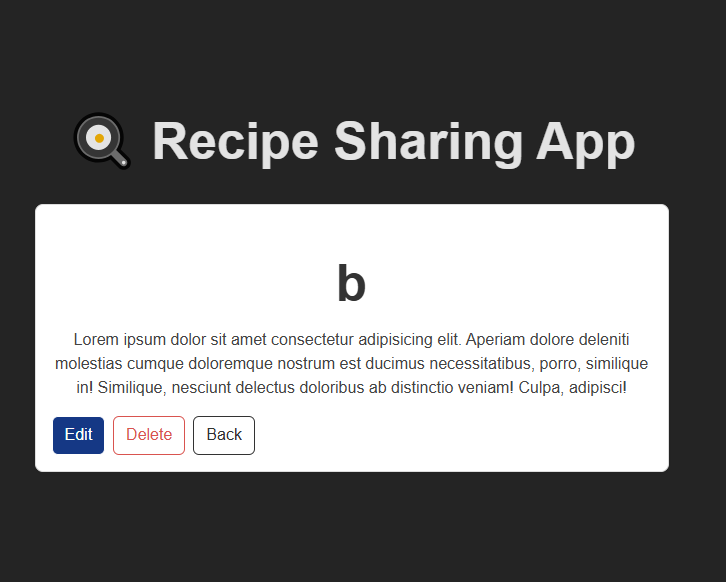
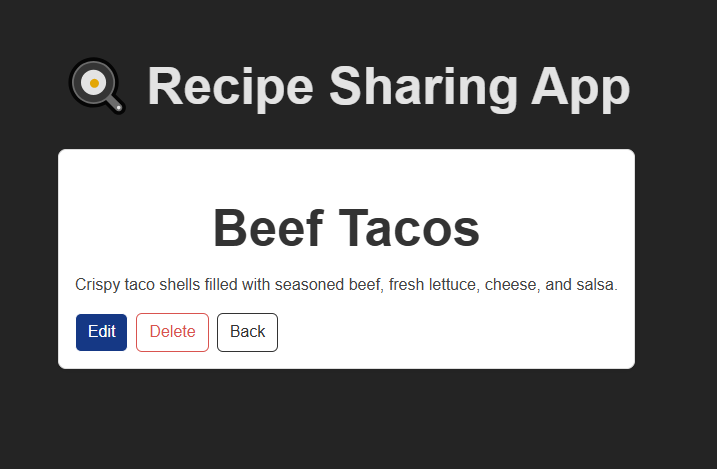
feat: add search and filtering functionality to recipes
- extended Zustand store with searchTerm, setSearchTerm, and filterRecipes
- created SearchBar component for inputting search terms
- updated RecipeList to display filtered recipes when a search term is present
- integrated SearchBar into App for improved recipe discovery

Changed region(s): [[0.0307, 0.1194, 0.9205, 0.8358], [0.2762, 0.4478, 0.675, 0.5373]]

diff --git a/recipe-sharing-app/src/components/recipeStore.js b/recipe-sharing-app/src/components/recipeStore.js
@@ -8,8 +8,10 @@ import { create } from "zustand";
  * - deleteRecipe(id)
  * - setRecipes(recipes)
  */
-export const useRecipeStore = create((set) => ({
+export const useRecipeStore = create((set, get) => ({
   recipes: [],
+  searchTerm: "",
+  filteredRecipes: [],
 
   // Action: add a new recipe
   addRecipe: (newRecipe) =>
@@ -34,4 +36,18 @@ export const useRecipeStore = create((set) => ({
 
   // Action: clear all recipes
   clearRecipes: () => set({ recipes: [] }),
+
+  // Action: set the search term
+  setSearchTerm: (term) => {
+    set({ searchTerm: term });
+    get().filterRecipes(); // auto-filter when term changes
+  },
+
+  // Action: filter recipes based on search term
+  filterRecipes: () =>
+    set((state) => ({
+      filteredRecipes: state.recipes.filter((recipe) =>
+        recipe.title.toLowerCase().includes(state.searchTerm.toLowerCase())
+      ),
+    })),
 }));

diff --git a/recipe-sharing-app/src/components/SearchBar.jsx b/recipe-sharing-app/src/components/SearchBar.jsx
@@ -1,0 +1,23 @@
+import React from "react";
+import { useRecipeStore } from "./recipeStore";
+
+const SearchBar = () => {
+  const setSearchTerm = useRecipeStore((state) => state.setSearchTerm);
+
+  return (
+    <input
+      type="text"
+      placeholder="Search recipes..."
+      onChange={(e) => setSearchTerm(e.target.value)}
+      style={{
+        padding: "0.5rem 1rem",
+        marginBottom: "1.5rem",
+        borderRadius: "8px",
+        border: "1px solid #ddd",
+        width: "100%",
+        maxWidth: "400px",
+      }}
+    />
+  );
+};
+export default SearchBar;

diff --git a/recipe-sharing-app/src/App.jsx b/recipe-sharing-app/src/App.jsx
@@ -4,6 +4,7 @@ import AddRecipeForm from "./components/AddRecipeForm";
 import RecipeList from "./components/RecipeList";
 import RecipeDetails from "./components/RecipeDetails";
 import EditRecipeForm from "./components/EditRecipeForm";
+import SearchBar from "./components/SearchBar";
 
 function App() {
   return (
@@ -22,6 +23,7 @@ function App() {
           element={
             <>
               <AddRecipeForm />
+              <SearchBar />
               <RecipeList />{" "}
             </>
           }

diff --git a/recipe-sharing-app/src/components/RecipeDetails.jsx b/recipe-sharing-app/src/components/RecipeDetails.jsx
@@ -51,10 +51,7 @@ const RecipeDetails = () => {
           }}
           aria-label="Edit recipe"
         >
-          Edit Lorem ipsum dolor sit amet consectetur adipisicing elit. Aperiam
-          dolore deleniti molestias cumque doloremque nostrum est ducimus
-          necessitatibus, porro, similique in! Similique, nesciunt delectus
-          doloribus ab distinctio veniam! Culpa, adipisci!
+          Edit
         </Link>
         <DeleteRecipeButton id={recipeId} />
         <Link

diff --git a/recipe-sharing-app/src/components/RecipeList.jsx b/recipe-sharing-app/src/components/RecipeList.jsx
@@ -3,7 +3,9 @@ import { Link } from "react-router-dom";
 import { useRecipeStore } from "./recipeStore";
 
 const RecipeList = () => {
-  const recipes = useRecipeStore((state) => state.recipes);
+  const recipes = useRecipeStore((state) =>
+    state.searchTerm ? state.filteredRecipes : state.recipes
+  );
 
   return (
     <div style={{ marginTop: "2rem" }}>

diff --git a/recipe-sharing-app/src/components/EditRecipeForm.jsx b/recipe-sharing-app/src/components/EditRecipeForm.jsx
@@ -30,8 +30,8 @@ const EditRecipeForm = () => {
     );
   }
 
-  const handleSubmit = (e) => {
-    e.preventDefault();
+  const handleSubmit = (event) => {
+    event.preventDefault();
     if (!title.trim() || !description.trim()) return;
 
     const updatedRecipe = {

diff --git a/recipe-sharing-app/README.md b/recipe-sharing-app/README.md
@@ -74,12 +74,28 @@ Open your browser at [http://localhost:5173](http://localhost:5173).
 | ------------------------------------------------------------------ | ----------------------------------------------------- | ----------------------------------------------------- |
 | ![AddRecipeForm + RecipeList](./src/assets/images/screenshot2.png) | ![RecipeDetails](./src/assets/images/screenshot3.png) | ![EditRecipeForm](./src/assets/images/screenshot.png) |
 
-| Edited Recipe Displayed                                         | Delete Recipe                                        |
-| --------------------------------------------------------------- | ---------------------------------------------------- |
-| ![Edited Recipe Displayed](./src/assets/images/screenshot4.png) | ![DeleteRecipe](./src/assets/images/screenshot5.png) |
+| Edited Recipe Displayed                                         | Delete Recipe                                        | Search Recipe                                                 |
+| --------------------------------------------------------------- | ---------------------------------------------------- | ------------------------------------------------------------- |
+| ![Edited Recipe Displayed](./src/assets/images/screenshot4.png) | ![DeleteRecipe](./src/assets/images/screenshot5.png) | ![SarchBar + RecipeList](./src/assets/images/screenshot6.png) |
 
 ---
 
 ## License
 
 MIT License © 2025
+
+---
+
+## Credits
+
+- Project idea & structure inspired by [ALX](https://www.alxafrica.com/) exercises
+- Icons and badges from [Shields.io](https://shields.io/)
+
+---
+
+## Contact
+
+Made with ❤ by **Mia Mudzingwa**
+
+- GitHub: [Mia06-coder](https://github.com/Mia06-coder)
+- LinkedIn: [mia-mudzingwa](https://www.linkedin.com/in/mia-mudzingwa)
